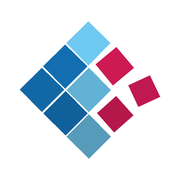
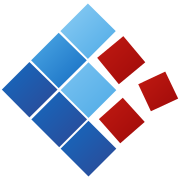
feat(brand): apply the 2026 brand manual
The palette, the typefaces and the mark all predate the manual: the reds
in the isotipo were crimson, two of the blue tiles carried the wrong
tonal step, and the type was Montserrat/Libre Franklin over a teal and
amber scheme.

- palette: the five official colours replace the old tokens, and the
  neutrals are re-derived so they share the temperature of the brand blue
- type: Cocomat Pro and Garet lead both stacks and fall back to Poppins
  and Outfit, the closest geometrics that ship as a free webfont. Heading
  tracking loosens from -.075em to -.025em, because the new faces are far
  wider than Montserrat and the letters were colliding
- isotipo: every tile now fades between two official colours and follows
  the three tonal steps of the source artwork
- logotipo: takes the manual's blue-to-red gradient, and turns white on
  dark surfaces the way the negative version does
- raster assets: regenerated from the manual's own artwork, so the
  wordmark carries real Cocomat Pro letterforms

Red is the accent on light surfaces and light blue the one on dark:
against the brand navy red only reaches 1.6:1. The white text on the dark
sections gains opacity for the same reason — the backgrounds that replace
the old ones are lighter.

diff --git a/src/styles/global.css b/src/styles/global.css
@@ -1,16 +1,24 @@
 :root {
-  --navy: #0d2638;
-  --navy-deep: #071722;
-  --blue: #075a83;
-  --electric: #65e0df;
-  --yellow: #f5bc4a;
-  --ink: #132733;
-  --muted: #6b7e88;
-  --sand: #f1eee7;
-  --line: #dbe4e5;
+  /* Manual de Marca TICLAT 2026 — paleta oficial */
+  --blue-deep: #2d4794;
+  --blue: #146bc1;
+  --blue-light: #4eaae6;
+  --red: #9f0a09;
   --white: #ffffff;
-  --font-heading: "Montserrat", sans-serif;
-  --font-body: "Libre Franklin", sans-serif;
+
+  /* Neutros derivados: todos tienen la temperatura del azul de marca */
+  --ink-deep: #131f45;
+  --ink: #16213f;
+  --muted: #66718c;
+  --sand: #eef2fa;
+  --line: #dde4f1;
+
+  /* Cocomat Pro (titulares, negrita) y Garet (texto) son las fuentes del
+     manual. Ninguna se distribuye por webfont libre, así que se usan cuando
+     están instaladas y si no caen en las geométricas más cercanas
+     disponibles en Google Fonts: Poppins y Outfit. */
+  --font-heading: "Cocomat Pro", "CocomatPro", "Poppins", "Helvetica Neue", Arial, sans-serif;
+  --font-body: "Garet", "Outfit", "Helvetica Neue", Arial, sans-serif;
   --container: min(1240px, calc(100% - 96px));
 }
 
@@ -60,78 +68,94 @@ button { cursor: pointer; }
   border: 1px solid rgba(255,255,255,.7);
   border-radius: 999px;
   background: rgba(255,255,255,.88);
-  box-shadow: 0 16px 45px rgba(3, 20, 33, .16);
+  box-shadow: 0 16px 45px rgba(19, 31, 69, .18);
   backdrop-filter: blur(18px);
   transition: background .25s ease, box-shadow .25s ease;
 }
 
-.site-header.is-scrolled .nav-shell { background: rgba(255,255,255,.96); box-shadow: 0 12px 30px rgba(3, 20, 33, .14); }
+.site-header.is-scrolled .nav-shell { background: rgba(255,255,255,.96); box-shadow: 0 12px 30px rgba(19, 31, 69, .16); }
 
 .brand { display: inline-flex; align-items: center; gap: 11px; flex: 0 0 auto; }
 .brand-mark { display: block; width: auto; height: 31px; flex: 0 0 auto; }
 .brand-type { display: flex; flex-direction: column; gap: 0; }
-.brand-type strong { color: var(--navy); font-family: var(--font-heading); font-size: 17px; font-weight: 900; letter-spacing: .16em; line-height: 1; }
-.brand-type small { margin-top: 4px; color: #84939a; font-size: 7px; font-weight: 700; letter-spacing: .09em; line-height: 1; text-transform: uppercase; }
+/* Logotipo: el degradado del manual recorre la palabra de azul profundo a
+   rojo. El color plano queda de reserva si background-clip: text no aplica. */
+.brand-type strong {
+  color: var(--blue-deep);
+  background: linear-gradient(90deg, var(--blue-deep) 0%, var(--blue) 32%, var(--blue-light) 58%, var(--red) 100%);
+  -webkit-background-clip: text;
+  background-clip: text;
+  -webkit-text-fill-color: transparent;
+  font-family: var(--font-heading);
+  font-size: 17px;
+  font-weight: 800;
+  letter-spacing: .16em;
+  line-height: 1;
+}
+.brand-type small { margin-top: 4px; color: #7c88a5; font-size: 7px; font-weight: 700; letter-spacing: .09em; line-height: 1; text-transform: uppercase; }
 
 .desktop-nav ul { display: flex; align-items: center; gap: clamp(16px, 2vw, 34px); margin: 0; padding: 0; list-style: none; }
-.desktop-nav a { position: relative; padding: 10px 1px; color: #40535d; font-family: var(--font-heading); font-size: 11px; font-weight: 700; letter-spacing: .08em; text-transform: uppercase; transition: color .2s ease; }
+.desktop-nav a { position: relative; padding: 10px 1px; color: #3c4866; font-family: var(--font-heading); font-size: 11px; font-weight: 700; letter-spacing: .08em; text-transform: uppercase; transition: color .2s ease; }
 .desktop-nav a::after { position: absolute; right: 0; bottom: 5px; left: 0; height: 1px; background: var(--blue); content: ""; transform: scaleX(0); transform-origin: right; transition: transform .25s ease; }
 .desktop-nav a:hover { color: var(--blue); }
 .desktop-nav a:hover::after { transform: scaleX(1); transform-origin: left; }
 
 .nav-actions { display: flex; align-items: center; gap: 8px; }
 .nav-cta, .button { display: inline-flex; align-items: center; justify-content: center; gap: 18px; min-height: 46px; padding: 0 20px; border: 1px solid transparent; font-family: var(--font-heading); font-size: 10px; font-weight: 800; letter-spacing: .1em; text-transform: uppercase; transition: transform .2s ease, background .2s ease, color .2s ease, border-color .2s ease; }
-.nav-cta { border-radius: 999px; background: var(--navy); color: white; }
+.nav-cta { border-radius: 999px; background: var(--blue-deep); color: white; }
 .nav-cta span, .button span { font-size: 16px; font-weight: 500; line-height: 0; }
 .nav-cta:hover, .button:hover { background: var(--blue); transform: translateY(-2px); }
-.menu-toggle { display: none; width: 44px; height: 44px; padding: 0; border: 0; border-radius: 50%; background: #eef5f5; }
-.menu-toggle span { display: block; width: 17px; height: 1.5px; margin: 5px auto; background: var(--navy); transition: transform .25s ease; }
+.menu-toggle { display: none; width: 44px; height: 44px; padding: 0; border: 0; border-radius: 50%; background: #eaf1fb; }
+.menu-toggle span { display: block; width: 17px; height: 1.5px; margin: 5px auto; background: var(--blue-deep); transition: transform .25s ease; }
 .mobile-menu { display: none; }
 
-.hero { position: relative; display: flex; min-height: min(900px, 100svh); align-items: center; isolation: isolate; overflow: hidden; background: var(--navy-deep); color: white; }
+.hero { position: relative; display: flex; min-height: min(900px, 100svh); align-items: center; isolation: isolate; overflow: hidden; background: var(--ink-deep); color: white; }
 .hero__image, .hero__overlay { position: absolute; inset: 0; width: 100%; height: 100%; }
 .hero__image { z-index: -3; object-fit: cover; object-position: center; animation: hero-in 1.3s ease both; }
-.hero__overlay { z-index: -2; background: linear-gradient(90deg, rgba(4,20,30,.92) 0%, rgba(5,25,37,.73) 36%, rgba(4,18,28,.12) 76%), linear-gradient(0deg, rgba(4,20,30,.7) 0%, transparent 50%); }
+.hero__overlay { z-index: -2; background: linear-gradient(90deg, rgba(13,25,60,.93) 0%, rgba(16,30,68,.74) 36%, rgba(12,22,52,.12) 76%), linear-gradient(0deg, rgba(13,25,60,.72) 0%, transparent 50%); }
 .hero__technical { position: absolute; top: 144px; right: 5.8%; display: flex; align-items: center; gap: 12px; color: rgba(255,255,255,.58); font-size: 8px; font-weight: 700; letter-spacing: .18em; text-transform: uppercase; writing-mode: vertical-rl; }
 .hero__technical-line { width: 1px; height: 96px; background: rgba(255,255,255,.4); }
 .hero__rail { position: absolute; bottom: 111px; left: 3%; display: flex; gap: 12px; color: rgba(255,255,255,.56); font-size: 8px; font-weight: 700; letter-spacing: .18em; writing-mode: vertical-rl; }
 .hero__rail span { display: inline-flex; align-items: center; gap: 9px; }
-.hero__rail span:not(:last-child)::after { width: 3px; height: 3px; border-radius: 50%; background: var(--electric); content: ""; }
+.hero__rail span:not(:last-child)::after { width: 3px; height: 3px; border-radius: 50%; background: var(--blue-light); content: ""; }
 .hero__content { position: relative; padding-top: 84px; padding-bottom: 100px; }
 .hero__eyebrow, .eyebrow { display: flex; align-items: center; gap: 10px; margin: 0 0 22px; color: var(--blue); font-family: var(--font-heading); font-size: 10px; font-weight: 800; letter-spacing: .2em; line-height: 1.4; text-transform: uppercase; }
 .hero__eyebrow { color: rgba(255,255,255,.77); }
-.status-dot { width: 7px; height: 7px; border-radius: 50%; background: var(--yellow); box-shadow: 0 0 0 5px rgba(245,188,74,.15); }
-.hero h1 { max-width: 930px; margin: 0; font-family: var(--font-heading); font-size: clamp(48px, 7.25vw, 108px); font-weight: 800; letter-spacing: -.075em; line-height: .95; }
-h1 em, h2 em { color: var(--electric); font-style: normal; }
+.status-dot { width: 7px; height: 7px; border-radius: 50%; background: var(--blue-light); box-shadow: 0 0 0 5px rgba(78,170,230,.18); }
+.hero h1 { max-width: 930px; margin: 0; font-family: var(--font-heading); font-size: clamp(48px, 7.25vw, 108px); font-weight: 800; letter-spacing: -.025em; line-height: .95; }
+/* El destacado sigue el mismo reparto que el resto de la marca: rojo sobre
+   fondo claro, azul claro sobre fondo oscuro (el rojo no contrasta ahí). */
+h1 em, h2 em { color: var(--red); font-style: normal; }
+.hero h1 em, .section--navy h2 em, .section--blue h2 em { color: var(--blue-light); }
 .hero__intro { max-width: 492px; margin: 29px 0 0; color: rgba(255,255,255,.8); font-size: clamp(16px, 1.45vw, 19px); line-height: 1.62; }
 .hero__actions { display: flex; align-items: center; gap: 30px; margin-top: 35px; }
-.button--accent { border-radius: 999px; background: var(--yellow); color: var(--navy); }
-.button--accent:hover { background: #ffd36e; color: var(--navy); }
-.text-link { display: inline-flex; align-items: center; gap: 17px; padding-bottom: 8px; border-bottom: 1px solid rgba(7,90,131,.28); color: var(--blue); font-family: var(--font-heading); font-size: 10px; font-weight: 800; letter-spacing: .1em; text-transform: uppercase; transition: gap .2s ease, color .2s ease, border-color .2s ease; }
-.text-link:hover { gap: 24px; color: var(--navy); border-color: var(--navy); }
+.button--accent { border-radius: 999px; background: var(--red); color: var(--white); }
+.button--accent:hover { background: #c11a12; color: var(--white); }
+.text-link { display: inline-flex; align-items: center; gap: 17px; padding-bottom: 8px; border-bottom: 1px solid rgba(20,107,193,.3); color: var(--blue); font-family: var(--font-heading); font-size: 10px; font-weight: 800; letter-spacing: .1em; text-transform: uppercase; transition: gap .2s ease, color .2s ease, border-color .2s ease; }
+.text-link:hover { gap: 24px; color: var(--blue-deep); border-color: var(--blue-deep); }
 .text-link--light { color: rgba(255,255,255,.9); border-color: rgba(255,255,255,.4); }
-.text-link--light:hover { color: var(--electric); border-color: var(--electric); }
+.text-link--light:hover { color: var(--blue-light); border-color: var(--blue-light); }
 .hero__bottom { position: absolute; right: 0; bottom: 27px; left: 0; display: flex; justify-content: space-between; align-items: center; color: rgba(255,255,255,.65); font-family: var(--font-heading); font-size: 9px; font-weight: 700; letter-spacing: .12em; text-transform: uppercase; }
 .hero__scroll { display: inline-flex; align-items: center; gap: 11px; }
-.hero__scroll i { display: block; width: 1px; height: 25px; background: var(--electric); }
-.hero__index b { margin-inline: 7px; color: var(--electric); font-weight: 400; }
+.hero__scroll i { display: block; width: 1px; height: 25px; background: var(--blue-light); }
+.hero__index b { margin-inline: 7px; color: var(--blue-light); font-weight: 400; }
 
-.trust-strip { border-bottom: 1px solid var(--line); background: #f7faf9; }
+.trust-strip { border-bottom: 1px solid var(--line); background: #f5f8fd; }
 .trust-strip__inner { display: grid; grid-template-columns: repeat(4, 1fr); min-height: 106px; }
-.trust-strip__inner > div { display: flex; align-items: center; gap: 15px; padding: 19px 24px; border-right: 1px solid var(--line); color: #60737c; font-family: var(--font-heading); font-size: 10px; font-weight: 700; letter-spacing: .08em; line-height: 1.45; text-transform: uppercase; }
+.trust-strip__inner > div { display: flex; align-items: center; gap: 15px; padding: 19px 24px; border-right: 1px solid var(--line); color: #5c6885; font-family: var(--font-heading); font-size: 10px; font-weight: 700; letter-spacing: .08em; line-height: 1.45; text-transform: uppercase; }
 .trust-strip__inner > div:first-child { padding-left: 0; }
 .trust-strip__inner > div:last-child { border-right: 0; }
-.trust-strip__number { color: var(--blue); font-size: 32px; letter-spacing: -.06em; }
-.trust-icon { display: inline-flex; align-items: center; justify-content: center; width: 27px; height: 27px; border: 1px solid #b8d2d5; border-radius: 50%; color: var(--blue); font-size: 16px; font-weight: 400; }
+.trust-strip__number { color: var(--blue); font-size: 32px; letter-spacing: -.02em; }
+.trust-icon { display: inline-flex; align-items: center; justify-content: center; width: 27px; height: 27px; border: 1px solid #bcd3ee; border-radius: 50%; color: var(--blue); font-size: 16px; font-weight: 400; }
 
 .section { position: relative; padding: 130px 0; }
-.section--light { background: #f6f8f7; }
+.section--light { background: #f4f7fc; }
 .section--white { background: var(--white); }
-.section--navy { overflow: hidden; background: var(--navy); color: white; }
+.section--navy { overflow: hidden; background: var(--blue-deep); color: white; }
 .section--sand { background: var(--sand); }
 .section--blue { overflow: hidden; background: var(--blue); color: white; }
 .about__grid { display: grid; grid-template-columns: minmax(0, 1fr) minmax(330px, .8fr); gap: 80px; }
-h2 { margin: 0; color: var(--ink); font-family: var(--font-heading); font-size: clamp(38px, 5.1vw, 73px); font-weight: 800; letter-spacing: -.075em; line-height: .98; }
+h2 { margin: 0; color: var(--ink); font-family: var(--font-heading); font-size: clamp(38px, 5.1vw, 73px); font-weight: 800; letter-spacing: -.025em; line-height: .98; }
 .about h2 { max-width: 670px; }
 .about__copy { padding-top: 49px; }
 .about__copy p { max-width: 465px; margin: 0 0 22px; color: var(--muted); font-size: 16px; line-height: 1.75; }
@@ -144,53 +168,54 @@ h2 { margin: 0; color: var(--ink); font-family: var(--font-heading); font-size: 
 .section-heading h2 { max-width: 700px; }
 .section-heading > p { max-width: 365px; margin: 0 0 4px; color: var(--muted); font-size: 15px; line-height: 1.75; }
 .service-grid { display: grid; grid-template-columns: repeat(3, 1fr); gap: 15px; }
-.service-card { min-height: 405px; overflow: hidden; border: 1px solid #e1e8e7; background: #fbfcfc; transition: transform .3s ease, background .3s ease, border-color .3s ease, box-shadow .3s ease; }
-.service-card:hover { border-color: var(--blue); background: var(--navy); box-shadow: 0 18px 35px rgba(13,38,56,.18); color: white; transform: translateY(-6px); }
-.service-card__media { position: relative; height: 152px; overflow: hidden; background: var(--navy); }
-.service-card__media::after { position: absolute; inset: 0; background: linear-gradient(180deg, rgba(13,38,56,.02), rgba(13,38,56,.3)); content: ""; pointer-events: none; }
+.service-card { min-height: 405px; overflow: hidden; border: 1px solid #e3e9f4; background: #fafbfe; transition: transform .3s ease, background .3s ease, border-color .3s ease, box-shadow .3s ease; }
+.service-card:hover { border-color: var(--blue); background: var(--blue-deep); box-shadow: 0 18px 35px rgba(19,31,69,.26); color: white; transform: translateY(-6px); }
+.service-card__media { position: relative; height: 152px; overflow: hidden; background: var(--blue-deep); }
+.service-card__media::after { position: absolute; inset: 0; background: linear-gradient(180deg, rgba(19,31,69,.02), rgba(19,31,69,.32)); content: ""; pointer-events: none; }
 .service-card__media img { width: 100%; height: 100%; object-fit: cover; filter: saturate(.86) contrast(1.03); transition: transform .7s cubic-bezier(.2,.8,.2,1), filter .3s ease; }
 .service-card:hover .service-card__media img { transform: scale(1.06); filter: saturate(1.05) contrast(1.04); }
 .service-card__body { padding: 21px 30px 30px; }
-.service-card__top { display: flex; justify-content: space-between; color: #87a0a5; font-family: var(--font-heading); font-size: 10px; font-weight: 800; letter-spacing: .12em; }
+.service-card__top { display: flex; justify-content: space-between; color: #8b96b2; font-family: var(--font-heading); font-size: 10px; font-weight: 800; letter-spacing: .12em; }
 .service-card__arrow { color: var(--blue); font-size: 20px; font-weight: 400; transition: color .3s ease, transform .3s ease; }
-.service-card:hover .service-card__arrow { color: var(--electric); transform: translate(3px, -3px); }
+.service-card:hover .service-card__arrow { color: var(--blue-light); transform: translate(3px, -3px); }
 .service-card__icon { width: 37px; height: 37px; margin: 41px 0 25px; color: var(--blue); transition: color .3s ease; }
-.service-card:hover .service-card__icon { color: var(--electric); }
-.service-card h3 { max-width: 250px; margin: 0 0 12px; font-family: var(--font-heading); font-size: 18px; font-weight: 800; letter-spacing: -.04em; line-height: 1.1; }
+.service-card:hover .service-card__icon { color: var(--blue-light); }
+.service-card h3 { max-width: 250px; margin: 0 0 12px; font-family: var(--font-heading); font-size: 18px; font-weight: 800; letter-spacing: -.015em; line-height: 1.1; }
 .service-card p { max-width: 300px; margin: 0; color: var(--muted); font-size: 13px; line-height: 1.65; transition: color .3s ease; }
 .service-card:hover p { color: rgba(255,255,255,.7); }
 
 .process { padding-bottom: 145px; }
-.process__glow { position: absolute; top: -230px; right: -140px; width: 520px; height: 520px; border-radius: 50%; background: radial-gradient(circle, rgba(101,224,223,.18), transparent 68%); }
+.process__glow { position: absolute; top: -230px; right: -140px; width: 520px; height: 520px; border-radius: 50%; background: radial-gradient(circle, rgba(78,170,230,.20), transparent 68%); }
 .section-heading--light h2 { color: white; }
-.section-heading--light > p { color: rgba(255,255,255,.63); }
+.section--navy .eyebrow, .section--blue .eyebrow { color: var(--blue-light); }
+.section-heading--light > p { color: rgba(255,255,255,.78); }
 .process__timeline { display: grid; grid-template-columns: repeat(5, 1fr); border-top: 1px solid rgba(255,255,255,.22); }
 .process-step { position: relative; min-height: 230px; padding: 28px 24px 0 0; border-right: 1px solid rgba(255,255,255,.13); }
 .process-step:not(:first-child) { padding-left: 24px; }
 .process-step:last-child { border-right: 0; }
-.process-step__number { display: inline-flex; align-items: center; justify-content: center; width: 43px; height: 43px; border: 1px solid rgba(101,224,223,.7); border-radius: 50%; color: var(--electric); font-family: var(--font-heading); font-size: 11px; font-weight: 800; }
-.process-step__line { position: absolute; top: -5px; left: 0; width: 9px; height: 9px; border-radius: 50%; background: var(--electric); box-shadow: 0 0 0 5px rgba(101,224,223,.12); }
+.process-step__number { display: inline-flex; align-items: center; justify-content: center; width: 43px; height: 43px; border: 1px solid rgba(78,170,230,.75); border-radius: 50%; color: var(--blue-light); font-family: var(--font-heading); font-size: 11px; font-weight: 800; }
+.process-step__line { position: absolute; top: -5px; left: 0; width: 9px; height: 9px; border-radius: 50%; background: var(--blue-light); box-shadow: 0 0 0 5px rgba(78,170,230,.16); }
 .process-step:not(:first-child) .process-step__line { left: -5px; }
-.process-step h3 { margin: 34px 0 11px; font-family: var(--font-heading); font-size: 18px; font-weight: 800; letter-spacing: -.04em; }
-.process-step p { max-width: 180px; margin: 0; color: rgba(255,255,255,.58); font-size: 13px; line-height: 1.7; }
+.process-step h3 { margin: 34px 0 11px; font-family: var(--font-heading); font-size: 18px; font-weight: 800; letter-spacing: -.015em; }
+.process-step p { max-width: 180px; margin: 0; color: rgba(255,255,255,.76); font-size: 13px; line-height: 1.7; }
 
 .project-grid { display: grid; grid-template-columns: 1.2fr .8fr; grid-template-rows: repeat(2, minmax(300px, 390px)); gap: 15px; }
-.project-card { position: relative; min-height: 320px; overflow: hidden; background: var(--navy); color: white; }
+.project-card { position: relative; min-height: 320px; overflow: hidden; background: var(--blue-deep); color: white; }
 .project-card--large { grid-row: span 2; }
 .project-card > img { width: 100%; height: 100%; object-fit: cover; transition: transform .8s cubic-bezier(.2,.8,.2,1); }
 .project-card:hover > img { transform: scale(1.05); }
-.project-card__veil { position: absolute; inset: 0; background: linear-gradient(0deg, rgba(2,14,22,.94) 0%, rgba(2,14,22,.13) 72%); }
+.project-card__veil { position: absolute; inset: 0; background: linear-gradient(0deg, rgba(10,18,44,.94) 0%, rgba(10,18,44,.13) 72%); }
 .project-card__content { position: absolute; right: 30px; bottom: 27px; left: 30px; }
-.project-card__category { margin: 0 0 11px; color: var(--electric); font-family: var(--font-heading); font-size: 9px; font-weight: 800; letter-spacing: .17em; text-transform: uppercase; }
-.project-card h3 { max-width: 540px; margin: 0; font-family: var(--font-heading); font-size: clamp(21px, 2.5vw, 35px); font-weight: 800; letter-spacing: -.06em; line-height: 1; }
+.project-card__category { margin: 0 0 11px; color: var(--blue-light); font-family: var(--font-heading); font-size: 9px; font-weight: 800; letter-spacing: .17em; text-transform: uppercase; }
+.project-card h3 { max-width: 540px; margin: 0; font-family: var(--font-heading); font-size: clamp(21px, 2.5vw, 35px); font-weight: 800; letter-spacing: -.02em; line-height: 1; }
 .project-card:not(.project-card--large) h3 { font-size: 22px; }
 .project-card__meta { display: flex; justify-content: space-between; align-items: center; margin-top: 17px; padding-top: 13px; border-top: 1px solid rgba(255,255,255,.3); color: rgba(255,255,255,.7); font-family: var(--font-heading); font-size: 9px; font-weight: 700; letter-spacing: .12em; text-transform: uppercase; }
-.project-card__meta span:last-child { color: var(--yellow); font-size: 18px; font-weight: 400; }
+.project-card__meta span:last-child { color: var(--blue-light); font-size: 18px; font-weight: 400; }
 .project-card__text { display: none; max-width: 460px; margin: 14px 0 0; color: rgba(255,255,255,.72); font-size: 13px; line-height: 1.6; }
 .project-card:hover .project-card__text { display: block; }
 
 .statement__grid { display: grid; grid-template-columns: 1fr 1fr; gap: 9%; align-items: center; }
-.statement__media { position: relative; min-height: 560px; overflow: hidden; background: var(--navy); }
+.statement__media { position: relative; min-height: 560px; overflow: hidden; background: var(--blue-deep); }
 .statement__media img { width: 100%; height: 100%; min-height: 560px; object-fit: cover; }
 .image-stamp { position: absolute; right: 19px; bottom: 18px; padding: 9px 13px; border: 1px solid rgba(255,255,255,.35); color: rgba(255,255,255,.8); font-family: var(--font-heading); font-size: 8px; font-weight: 700; letter-spacing: .13em; text-transform: uppercase; }
 .statement h2 { margin-bottom: 28px; }
@@ -200,41 +225,41 @@ h2 { margin: 0; color: var(--ink); font-family: var(--font-heading); font-size: 
 .safety__copy > p:not(.eyebrow) { max-width: 450px; margin: 0; color: var(--muted); font-size: 16px; line-height: 1.72; }
 .safety__signature { display: flex; align-items: center; gap: 15px; margin-top: 45px; color: var(--blue); font-family: var(--font-heading); font-size: 10px; font-weight: 800; letter-spacing: .12em; line-height: 1.5; text-transform: uppercase; }
 .signature-line { width: 43px; height: 1px; background: var(--blue); }
-.safety__media { position: relative; min-height: 480px; overflow: hidden; background: var(--navy); }
+.safety__media { position: relative; min-height: 480px; overflow: hidden; background: var(--blue-deep); }
 .safety__media img { width: 100%; height: 100%; min-height: 480px; object-fit: cover; }
-.safety__badge { position: absolute; right: 23px; bottom: 23px; display: flex; align-items: center; gap: 12px; padding: 13px 16px; border: 1px solid rgba(255,255,255,.3); background: rgba(13,38,56,.77); color: white; backdrop-filter: blur(10px); }
-.safety__badge span { color: var(--yellow); font-family: var(--font-heading); font-size: 21px; font-weight: 800; }
+.safety__badge { position: absolute; right: 23px; bottom: 23px; display: flex; align-items: center; gap: 12px; padding: 13px 16px; border: 1px solid rgba(255,255,255,.3); background: rgba(19,31,69,.78); color: white; backdrop-filter: blur(10px); }
+.safety__badge span { color: var(--blue-light); font-family: var(--font-heading); font-size: 21px; font-weight: 800; }
 .safety__badge strong { font-family: var(--font-heading); font-size: 9px; font-weight: 800; letter-spacing: .12em; line-height: 1.3; text-transform: uppercase; }
 
 .contact { padding: 121px 0 112px; }
 .contact__blueprint { position: absolute; inset: 0; opacity: .14; background-image: linear-gradient(rgba(255,255,255,.4) 1px, transparent 1px), linear-gradient(90deg, rgba(255,255,255,.4) 1px, transparent 1px); background-size: 74px 74px; mask-image: linear-gradient(90deg, transparent, #000 22%, #000 80%, transparent); pointer-events: none; }
-.contact__blueprint span { position: absolute; width: 10px; height: 10px; border: 1px solid var(--electric); border-radius: 50%; }
+.contact__blueprint span { position: absolute; width: 10px; height: 10px; border: 1px solid var(--blue-light); border-radius: 50%; }
 .contact__blueprint span:nth-child(1) { top: 22%; left: 24%; }.contact__blueprint span:nth-child(2) { top: 75%; left: 45%; }.contact__blueprint span:nth-child(3) { top: 32%; right: 23%; }.contact__blueprint span:nth-child(4) { right: 8%; bottom: 15%; }
 .contact__grid { position: relative; display: grid; grid-template-columns: 1fr .78fr; align-items: center; gap: 10%; }
-.eyebrow--light { color: var(--electric); }
+.eyebrow--light { color: var(--blue-light); }
 .contact h2 { max-width: 720px; color: white; }
-.contact__intro > p:not(.eyebrow) { max-width: 530px; margin: 28px 0 0; color: rgba(255,255,255,.72); font-size: 16px; line-height: 1.7; }
-.contact__facts { display: flex; flex-wrap: wrap; gap: 23px; margin-top: 42px; color: rgba(255,255,255,.58); font-family: var(--font-heading); font-size: 9px; font-weight: 800; letter-spacing: .14em; text-transform: uppercase; }
-.contact__facts span { padding-left: 13px; border-left: 1px solid var(--electric); }
+.contact__intro > p:not(.eyebrow) { max-width: 530px; margin: 28px 0 0; color: rgba(255,255,255,.86); font-size: 16px; line-height: 1.7; }
+.contact__facts { display: flex; flex-wrap: wrap; gap: 23px; margin-top: 42px; color: rgba(255,255,255,.8); font-family: var(--font-heading); font-size: 9px; font-weight: 800; letter-spacing: .14em; text-transform: uppercase; }
+.contact__facts span { padding-left: 13px; border-left: 1px solid var(--blue-light); }
 .contact-form { padding: 28px 30px 30px; background: white; color: var(--ink); }
 .contact-form__top { display: flex; justify-content: space-between; margin-bottom: 28px; padding-bottom: 16px; border-bottom: 1px solid var(--line); color: var(--blue); font-family: var(--font-heading); font-size: 9px; font-weight: 800; letter-spacing: .16em; text-transform: uppercase; }
-.contact-form label { display: block; margin-top: 19px; color: #657883; font-family: var(--font-heading); font-size: 9px; font-weight: 800; letter-spacing: .12em; text-transform: uppercase; }
-.contact-form input, .contact-form textarea { display: block; width: 100%; margin-top: 9px; padding: 13px 0; border: 0; border-bottom: 1px solid #d4dfdf; border-radius: 0; outline: 0; color: var(--ink); font-family: var(--font-body); font-size: 14px; resize: vertical; transition: border-color .2s ease; }
+.contact-form label { display: block; margin-top: 19px; color: #616d8b; font-family: var(--font-heading); font-size: 9px; font-weight: 800; letter-spacing: .12em; text-transform: uppercase; }
+.contact-form input, .contact-form textarea { display: block; width: 100%; margin-top: 9px; padding: 13px 0; border: 0; border-bottom: 1px solid #d7deec; border-radius: 0; outline: 0; color: var(--ink); font-family: var(--font-body); font-size: 14px; resize: vertical; transition: border-color .2s ease; }
 .contact-form input:focus, .contact-form textarea:focus { border-color: var(--blue); }
-.contact-form input::placeholder, .contact-form textarea::placeholder { color: #9aabb0; }
+.contact-form input::placeholder, .contact-form textarea::placeholder { color: #9aa4bd; }
 .contact-form .button { width: 100%; margin-top: 25px; border: 0; }
 .form-status { min-height: 17px; margin: 12px 0 0; color: var(--blue); font-size: 11px; text-align: center; }
 
-.site-footer { position: relative; overflow: hidden; padding: 92px 0 0; background: var(--navy-deep); color: rgba(255,255,255,.68); }
+.site-footer { position: relative; overflow: hidden; padding: 92px 0 0; background: var(--ink-deep); color: rgba(255,255,255,.68); }
 .footer-gridline { position: absolute; inset: 0; opacity: .07; background-image: linear-gradient(rgba(255,255,255,.3) 1px, transparent 1px), linear-gradient(90deg, rgba(255,255,255,.3) 1px, transparent 1px); background-size: 80px 80px; mask-image: linear-gradient(90deg, #000, transparent 75%); pointer-events: none; }
 .footer-inner { position: relative; display: grid; grid-template-columns: 1.6fr .7fr 1fr; gap: 8%; width: var(--container); margin-inline: auto; padding-bottom: 75px; }
-.brand--footer .brand-type strong { color: white; }.brand--footer .brand-type small { color: rgba(255,255,255,.45); }
-.footer-main > p { max-width: 270px; margin: 26px 0 29px; color: white; font-family: var(--font-heading); font-size: clamp(20px, 2vw, 28px); font-weight: 700; letter-spacing: -.06em; line-height: 1.06; }
-.footer-email { display: inline-flex; align-items: center; gap: 16px; color: var(--electric); font-family: var(--font-heading); font-size: 10px; font-weight: 800; letter-spacing: .12em; text-transform: uppercase; }
-.footer-email span { font-size: 17px; }.footer-label { margin: 2px 0 20px; color: var(--yellow); font-family: var(--font-heading); font-size: 9px; font-weight: 800; letter-spacing: .18em; text-transform: uppercase; }
+.brand--footer .brand-type strong { background: none; color: white; -webkit-text-fill-color: white; }.brand--footer .brand-type small { color: rgba(255,255,255,.45); }
+.footer-main > p { max-width: 270px; margin: 26px 0 29px; color: white; font-family: var(--font-heading); font-size: clamp(20px, 2vw, 28px); font-weight: 700; letter-spacing: -.02em; line-height: 1.06; }
+.footer-email { display: inline-flex; align-items: center; gap: 16px; color: var(--blue-light); font-family: var(--font-heading); font-size: 10px; font-weight: 800; letter-spacing: .12em; text-transform: uppercase; }
+.footer-email span { font-size: 17px; }.footer-label { margin: 2px 0 20px; color: var(--blue-light); font-family: var(--font-heading); font-size: 9px; font-weight: 800; letter-spacing: .18em; text-transform: uppercase; }
 .footer-column nav { display: flex; flex-direction: column; gap: 12px; }.footer-column nav a { width: max-content; color: rgba(255,255,255,.62); font-size: 13px; transition: color .2s ease, transform .2s ease; }.footer-column nav a:hover { color: white; transform: translateX(4px); }
 .footer-copy { max-width: 220px; margin: 0 0 17px; color: rgba(255,255,255,.53); font-size: 13px; line-height: 1.7; }
-.footer-bottom { position: relative; display: flex; justify-content: space-between; gap: 20px; width: var(--container); margin-inline: auto; padding: 19px 0 24px; border-top: 1px solid rgba(255,255,255,.12); color: rgba(255,255,255,.33); font-family: var(--font-heading); font-size: 8px; font-weight: 700; letter-spacing: .12em; text-transform: uppercase; }
+.footer-bottom { position: relative; display: flex; justify-content: space-between; gap: 20px; width: var(--container); margin-inline: auto; padding: 19px 0 24px; border-top: 1px solid rgba(255,255,255,.14); color: rgba(255,255,255,.46); font-family: var(--font-heading); font-size: 8px; font-weight: 700; letter-spacing: .12em; text-transform: uppercase; }
 
 [data-reveal] { opacity: 0; transform: translateY(22px); transition: opacity .75s cubic-bezier(.22,1,.36,1), transform .75s cubic-bezier(.22,1,.36,1); transition-delay: var(--reveal-delay, 0ms); }
 [data-reveal].is-visible { opacity: 1; transform: translateY(0); }
@@ -247,10 +272,10 @@ h2 { margin: 0; color: var(--ink); font-family: var(--font-heading); font-size: 
   .menu-toggle { display: block; }
   .site-header { padding-inline: 14px; }
   .nav-shell { min-height: 64px; padding-left: 17px; }
-  .mobile-menu { display: block; width: min(100% - 28px, 760px); max-height: 0; margin: 8px auto 0; overflow: hidden; border-radius: 22px; background: rgba(255,255,255,.96); box-shadow: 0 18px 35px rgba(3,20,33,.16); opacity: 0; transition: max-height .35s ease, opacity .25s ease; }
+  .mobile-menu { display: block; width: min(100% - 28px, 760px); max-height: 0; margin: 8px auto 0; overflow: hidden; border-radius: 22px; background: rgba(255,255,255,.96); box-shadow: 0 18px 35px rgba(19,31,69,.18); opacity: 0; transition: max-height .35s ease, opacity .25s ease; }
   .mobile-menu.is-open { max-height: 420px; opacity: 1; }
   .mobile-menu ul { margin: 0; padding: 10px 22px 18px; list-style: none; }
-  .mobile-menu li { border-bottom: 1px solid #edf2f2; }.mobile-menu li:last-child { border-bottom: 0; }
+  .mobile-menu li { border-bottom: 1px solid #e8eef8; }.mobile-menu li:last-child { border-bottom: 0; }
   .mobile-menu a { display: block; padding: 14px 0; color: var(--ink); font-family: var(--font-heading); font-size: 11px; font-weight: 800; letter-spacing: .1em; text-transform: uppercase; }.mobile-menu__cta { color: var(--blue) !important; }
   .hero__rail { display: none; }.hero__technical { right: 25px; }
   .about__grid, .safety__grid { grid-template-columns: 1fr; gap: 35px; }.about__copy { padding-top: 0; }.about__principles { margin-top: 70px; }
@@ -264,7 +289,7 @@ h2 { margin: 0; color: var(--ink); font-family: var(--font-heading); font-size: 
 @media (max-width: 620px) {
   :root { --container: calc(100% - 38px); }
   .site-header { top: 10px; padding-inline: 10px; }.nav-shell { padding-left: 14px; }.brand-type small { display: none; }.brand-type strong { font-size: 15px; }.brand-mark { height: 27px; }
-  .hero { min-height: 760px; align-items: flex-end; }.hero__image { object-position: 61% center; }.hero__overlay { background: linear-gradient(90deg, rgba(4,20,30,.91), rgba(4,20,30,.35)), linear-gradient(0deg, rgba(4,20,30,.9), transparent 70%); }.hero__content { padding-bottom: 116px; }.hero h1 { font-size: clamp(39px, 11.7vw, 74px); }.hero__intro { font-size: 15px; }.hero__actions { flex-wrap: wrap; gap: 21px; }.hero__technical { top: 108px; right: 14px; font-size: 7px; }.hero__bottom { bottom: 25px; }
+  .hero { min-height: 760px; align-items: flex-end; }.hero__image { object-position: 61% center; }.hero__overlay { background: linear-gradient(90deg, rgba(13,25,60,.92), rgba(13,25,60,.36)), linear-gradient(0deg, rgba(13,25,60,.9), transparent 70%); }.hero__content { padding-bottom: 116px; }.hero h1 { font-size: clamp(39px, 11.7vw, 74px); }.hero__intro { font-size: 15px; }.hero__actions { flex-wrap: wrap; gap: 21px; }.hero__technical { top: 108px; right: 14px; font-size: 7px; }.hero__bottom { bottom: 25px; }
   .trust-strip__inner { grid-template-columns: 1fr 1fr; }.trust-strip__inner > div, .trust-strip__inner > div:first-child { min-height: 92px; padding: 16px 10px; border-bottom: 1px solid var(--line); font-size: 8px; }.trust-strip__inner > div:nth-child(2) { border-right: 0; }.trust-strip__inner > div:nth-child(3), .trust-strip__inner > div:nth-child(4) { border-bottom: 0; }.trust-strip__number { font-size: 26px; }
   .section { padding: 87px 0; }.eyebrow { font-size: 8px; }.section-heading { margin-bottom: 39px; } h2 { font-size: clamp(37px, 11.6vw, 58px); }.about__copy .lead { font-size: 18px; }.about__principles { grid-template-columns: 1fr 1fr; gap: 21px; margin-top: 55px; }.about__principles span { font-size: 8px; }
   .service-grid { grid-template-columns: 1fr; gap: 10px; }.service-card { min-height: 0; }.service-card__media { height: 190px; }.service-card__body { padding: 21px 23px 27px; }.service-card__icon { margin-top: 28px; }
